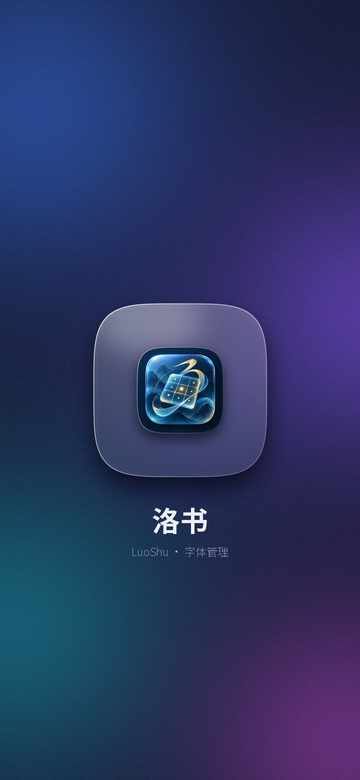
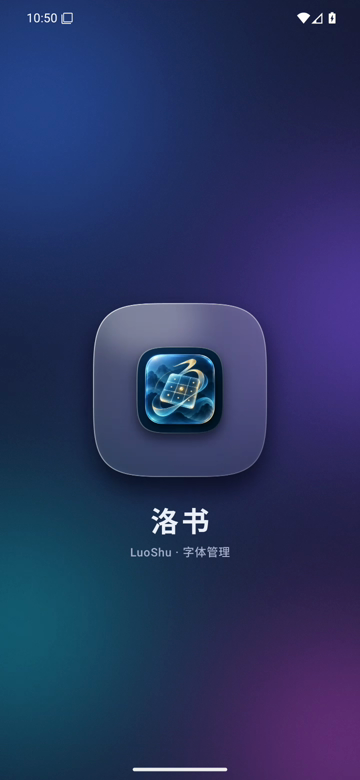
fix(app): Splash 玻璃球按平台图标边界填充；用首轮 CI 真实录像重建启动壳基准
- 首轮 CI（run 38092197157）显示：带显式 288dp 尺寸的 layer-list 被平台再放大约 1.75 倍，
  只剩图标块铺满 192dp 圆。改为 <bitmap gravity=fill>（与矢量图标一样填充平台边界），
  图标块与启动壳首帧同尺寸同位置。
- 浅色玻璃卡片白度略降（更通透）。
- 启动视觉分类器：字标裁剪允许 ±3px；平台 Splash 不含字标且为单色底，字标可见或
  弥散场吻合时不判为原生 Logo（玻璃卡内是同一图标块）；溶解/交叉淡化需字标仍可见、
  且混合拟合更严格。
- 基准：native-shell-{light,dark} 改为 run 38092197157 真实帧；新增真实启动壳/溶解帧
  回归引用；移除已退役玻璃透镜图标的 logo-transition 帧；native-logo / native-splash
  暂为按平台几何渲染的设计基准（待新图标真实录像替换）。

diff --git a/scripts/android_startup_visual.py b/scripts/android_startup_visual.py
@@ -41,10 +41,19 @@ FIELD_CELL_TOLERANCE = 18.0
 FIELD_CELL_FRACTION = .98
 BLEND_MIN = .08
 BLEND_MAX = .92
-BLEND_MEAN_RESIDUAL = 8.0
-BLEND_P98_RESIDUAL = 22.0
-BLEND_IMPROVEMENT = .6
+BLEND_MEAN_RESIDUAL = 5.0
+BLEND_P98_RESIDUAL = 16.0
+BLEND_IMPROVEMENT = .45
 BLEND_MIN_ENDPOINT_DIFFERENCE = 10.0
+# Wordmark text crops may sit a few pixels off between the native preparation View, the
+# Compose shell and window animations; search this far around each crop.
+SHELL_TEXT_SEARCH = 3
+# The platform splash never shows the wordmark. While it is even partly visible, the shared
+# icon tile in the glass card is not the native logo.
+WORDMARK_PARTIAL_SCORE = .8
+WORDMARK_PARTIAL_CONTRAST = .2
+# A steady native logo sits on the opaque splash colour (low-res field, card area excluded).
+SPLASH_FIELD_TOLERANCE = 12.0
 SURFACE_SCALES = tuple(index / 200 for index in range(130, 211))
 SURFACE_SHIFT = (20, 80)
 
@@ -221,7 +230,8 @@ class FrameClassifier:
         return {"score": float(scores[y, x]), "scale": scale, "dx": int(x + dx1), "dy": int(y + dy1)}
 
     def shell_match(self, frame: np.ndarray, edge_frame: np.ndarray, frame_field: np.ndarray) -> dict:
-        scores = [match_score(edge_frame[y1:y2, x1:x2], template)
+        pad = SHELL_TEXT_SEARCH
+        scores = [match_score(edge_frame[max(0, y1 - pad):y2 + pad, max(0, x1 - pad):x2 + pad], template)
                   for (x1, y1, x2, y2), template, _ in self.shell_patches]
         # Normalized edge correlation is contrast invariant. Also require
         # visible ink, or almost-erased words could pass as a nonblank shell.
@@ -238,7 +248,9 @@ class FrameClassifier:
         difference = np.abs(frame_field - self.shell_field).max(axis=2)[self.shell_field_mask]
         field_mean = float(difference.mean())
         field_fraction = float(np.mean(difference <= FIELD_CELL_TOLERANCE))
+        wordmark = min(scores) >= WORDMARK_PARTIAL_SCORE and min(contrast_ratios) >= WORDMARK_PARTIAL_CONTRAST
         return {"text_scores": scores, "text_contrast_ratios": contrast_ratios, "text_ink_ratios": ink_ratios,
+                "wordmark_visible": bool(wordmark),
                 "field_mean_difference": round(field_mean, 3), "field_cell_fraction": round(field_fraction, 4),
                 "matched": min(scores) >= SHELL_TEXT_MATCH and min(contrast_ratios) >= .75
                     and min(ink_ratios) >= .75 and field_mean <= FIELD_MEAN_TOLERANCE
@@ -258,6 +270,11 @@ class FrameClassifier:
         frame_field = field(frame)
         shell = self.shell_match(frame, edge_frame, frame_field)
         blend = {"matched": False}
+        # The glass card carries the same icon tile as the splash orb. The platform splash is
+        # an opaque single colour without the wordmark; the launch shell's diffuse field or
+        # its wordmark rule the logo states out.
+        splash_field_mean = float(np.abs(frame_field - self.splash_field).max(axis=2)[self.blend_mask].mean())
+        logo_excluded = shell["wordmark_visible"] or shell["field_mean_difference"] <= FIELD_MEAN_TOLERANCE
         logo_score = match_score(edge_frame[int(height * .32):int(height * .69), int(width * .20):int(width * .80)], self.logo)
         home_match = self.home_transform_match(edge_frame, self.full_home_transform)
         logo_transform = {"score": logo_score, "scale": 1.0}
@@ -272,16 +289,17 @@ class FrameClassifier:
             # Wordmark text only exists in the launch shell; its card holds the same icon
             # tile as the splash orb, so the shell is recognized before logo matching.
             state = "startup-shell"
-        elif logo_score >= LOGO_MATCH:
+        elif logo_score >= LOGO_MATCH and not logo_excluded and splash_field_mean <= SPLASH_FIELD_TOLERANCE:
             state = "native-logo"
         else:
             # Logo search precedes home, including transformed logos returning
             # over already-visible content or on a same-process warm resume.
-            for scale, artwork in self.logo_transforms:
-                match = self.logo_transform_match(edge_frame, scale, artwork)
-                if match["score"] > logo_transform["score"]:
-                    logo_transform = match
-            if logo_transform["score"] >= TRANSITION_MATCH:
+            if not logo_excluded:
+                for scale, artwork in self.logo_transforms:
+                    match = self.logo_transform_match(edge_frame, scale, artwork)
+                    if match["score"] > logo_transform["score"]:
+                        logo_transform = match
+            if logo_transform["score"] >= TRANSITION_MATCH and not logo_excluded:
                 state = "logo-transition"
             elif home_match["score"] >= HOME_MATCH:
                 state = "home"
@@ -295,9 +313,12 @@ class FrameClassifier:
                 elif baseline_score >= .95:
                     state = "prelaunch"
                 else:
+                    # A dissolve/crossfade frame still shows the (partly faded) wordmark;
+                    # blank or flat frames cannot qualify through the colour fit alone.
                     blend = self.blend_match(frame_field)
-                    state = "shell-transition" if blend["matched"] else "unclassified"
-        return {"state": state, "shell_match": shell, "blend_match": blend, "logo_score": round(logo_score, 5),
+                    state = "shell-transition" if blend["matched"] and shell["wordmark_visible"] else "unclassified"
+        return {"state": state, "shell_match": shell, "blend_match": blend,
+                "splash_field_mean_difference": round(splash_field_mean, 3), "logo_excluded": bool(logo_excluded), "logo_score": round(logo_score, 5),
                 "home_scores": {key: round(value, 5) for key, value in home_match["scores"].items()},
                 "home_transform": {key: round(value, 5) if isinstance(value, float) else value for key, value in home_match.items() if key != "scores"},
                 "logo_transform": {key: round(value, 5) if isinstance(value, float) else value for key, value in logo_transform.items()},
@@ -385,7 +406,10 @@ def inspect_recording(video: Path, home: Path, hierarchy: Path, theme: str, outp
                              "shell_field_cell_pixels": FIELD_CELL, "shell_field_mean_tolerance": FIELD_MEAN_TOLERANCE,
                              "shell_field_cell_tolerance": FIELD_CELL_TOLERANCE, "shell_field_cell_fraction": FIELD_CELL_FRACTION,
                              "blend_weight_range": [BLEND_MIN, BLEND_MAX], "blend_mean_residual": BLEND_MEAN_RESIDUAL,
-                             "blend_p98_residual": BLEND_P98_RESIDUAL, "blend_improvement": BLEND_IMPROVEMENT},
+                             "blend_p98_residual": BLEND_P98_RESIDUAL, "blend_improvement": BLEND_IMPROVEMENT,
+                             "shell_text_search_pixels": SHELL_TEXT_SEARCH, "wordmark_partial_score": WORDMARK_PARTIAL_SCORE,
+                             "wordmark_partial_contrast": WORDMARK_PARTIAL_CONTRAST,
+                             "splash_field_tolerance": SPLASH_FIELD_TOLERANCE},
               "surface_transform_bounds": {"scale_min": min(SURFACE_SCALES), "scale_max": max(SURFACE_SCALES),
                                            "scale_step": .005, "shared_home_translation_pixels": list(SURFACE_SHIFT)}}
     try:

diff --git a/scripts/android_startup_visual_test.py b/scripts/android_startup_visual_test.py
@@ -295,6 +295,25 @@ class RealSurfaceReferenceTest(unittest.TestCase):
                 self.assertIn("Warm same-process", " ".join(warm["errors"]))
                 self.assertFalse(verdict["native_logo_seen"])
 
+    def test_real_launch_shell_and_dissolve_frames_are_recognized(self):
+        shell_references = [reference for reference in self.provenance["references"]
+                            if reference["expected_state"] in ("startup-shell", "shell-transition")]
+        self.assertEqual({"light", "dark"}, {reference["theme"] for reference in shell_references})
+        for reference in shell_references:
+            with self.subTest(file=reference["file"]):
+                result = self.classify(reference)
+                self.assertEqual(reference["expected_state"], result["state"])
+                # A launch shell frame must never pass as home or as the platform logo.
+                self.assertNotIn(result["state"], ("home", "native-logo", "logo-transition"))
+                warm = timeline_verdict([{"frame": 0, "seconds": 0, **result},
+                                         {"frame": 1, "seconds": .01, "state": "home"}], warm=True)
+                self.assertFalse(warm["passed"])
+                late = timeline_verdict([{"frame": 0, "seconds": 0, "state": "native-logo"},
+                                         {"frame": 1, "seconds": .01, "state": "home"},
+                                         {"frame": 2, "seconds": .02, **result},
+                                         {"frame": 3, "seconds": .03, "state": "home"}])
+                self.assertIn("returned after visible home", " ".join(late["errors"]))
+
     def test_real_frozen_fixture_hashes_and_original_frame_provenance(self):
         for reference in self.provenance["references"] + self.provenance["home_references"]:
             with self.subTest(file=reference["file"]):

diff --git a/scripts/android_launch_source_test.py b/scripts/android_launch_source_test.py
@@ -280,13 +280,13 @@ class SingleStageLaunchSourceTest(unittest.TestCase):
 
     def test_splash_icon_is_one_static_orb_on_the_platform_icon_canvas(self):
         icon = ET.parse(MAIN / "res/drawable/ic_luoshu_launch.xml").getroot()
-        self.assertEqual(icon.tag, "layer-list")
-        items = icon.findall("item")
-        self.assertEqual(len(items), 1)
-        self.assertEqual(items[0].get(ANDROID + "drawable"), "@drawable/luoshu_splash_orb")
-        self.assertEqual(items[0].get(ANDROID + "width"), "288dp")
-        self.assertEqual(items[0].get(ANDROID + "height"), "288dp")
-        self.assertIsNone(icon.find(".//animated-vector"))
+        # Fill the platform's icon bounds like a vector; an explicit item size is scaled
+        # again by the platform (seen as a ~1.75x oversized tile in run 38092197157).
+        self.assertEqual(icon.tag, "bitmap")
+        self.assertEqual(icon.get(ANDROID + "src"), "@drawable/luoshu_splash_orb")
+        self.assertEqual(icon.get(ANDROID + "gravity"), "fill")
+        self.assertIsNone(icon.get(ANDROID + "width"))
+        self.assertEqual(list(icon), [])
 
     def test_light_and_dark_launch_colors_resolve_with_legible_wordmark(self):
         def luminance(rgb):

diff --git a/design/launch/build_launch_assets.py b/design/launch/build_launch_assets.py
@@ -43,7 +43,7 @@ THEMES = {
         ],
         "splash": None,  # computed from backdrop centre
         "shadow": ((84, 88, 178), 0.58),
-        "fill_top": 0.52, "fill_bottom": 0.22,
+        "fill_top": 0.46, "fill_bottom": 0.20,
         "rim": (1.0, 0.28),
         "highlight": 0.55,
         "tile_shadow": ((22, 36, 92), 0.50),
